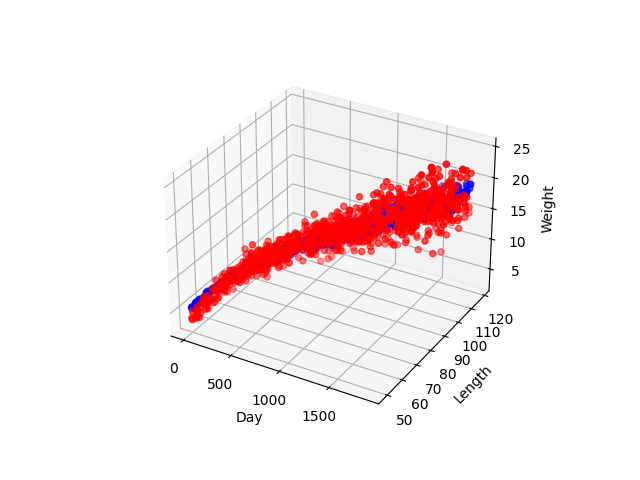
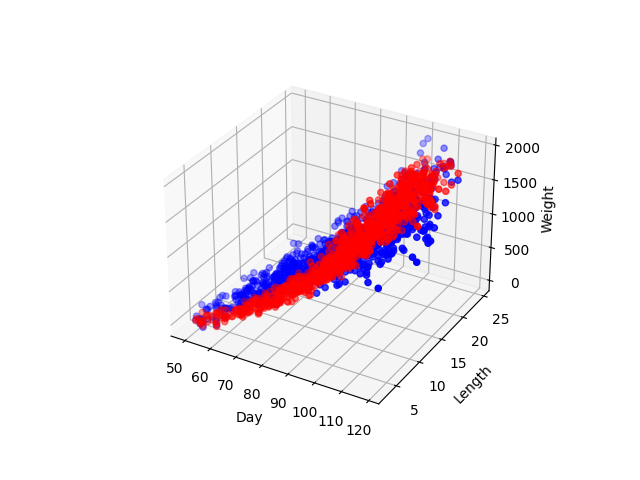
Fikset b til å bruke riktige verdier.

diff --git a/b.py b/b.py
@@ -6,8 +6,8 @@ import matplotlib.pyplot as plt
 df = pd.read_csv('day_length_weight.csv')
 
 data = torch.tensor(df.values, dtype=torch.float)
-all_x = data[:, 0:2].t()
-all_y = data[:, 2].t()
+all_x = data[:, 1:3].t()
+all_y = data[:, 0].t()
 
 # can be changed to make x_test and y_test
 x_train = all_x
@@ -35,7 +35,7 @@ class LinearRegressionModel:
 model = LinearRegressionModel()
 
 # Optimize: adjust W and b to minimize loss using stochastic gradient descent
-optimizer = torch.optim.SGD([model.W, model.b], 0.0000001)
+optimizer = torch.optim.SGD([model.W, model.b], 0.0001)
 for epoch in range(75000):
     model.loss(x_train, y_train).backward()  # Compute loss gradients
     optimizer.step()  # Perform optimization by adjusting W and b,
@@ -46,7 +46,7 @@ print("W = %s, b = %s, loss = %s" % (model.W, model.b, model.loss(x_train, y_tra
 
 fig = plt.figure().gca(projection='3d')
 
-fig.scatter(df['day'], df['length'], df['weight'], c='red')
+fig.scatter(df['length'], df['weight'], df['day'], c='red')
 
 fig.scatter(x_train[0, :], x_train[1, :], zs=model.f(x_train).detach(), c='blue')
 

diff --git a/a.py b/a.py
@@ -1,9 +1,6 @@
 import torch
 import pandas as pd
-from numpy import genfromtxt
 import matplotlib.pyplot as plt
-
-# Observed/training input and output
 
 data = pd.read_csv('length_weight.csv')
 
@@ -17,8 +14,8 @@ y_train = torch.tensor(all_y).reshape(-1, 1)
 class LinearRegressionModel:
     def __init__(self):
         # Model variables
-        self.W = torch.tensor([[1.0]], requires_grad=True)  # requires_grad enables calculation of gradients
-        self.b = torch.tensor([[1.0]], requires_grad=True)
+        self.W = torch.randn((1, 1), requires_grad=True)  # requires_grad enables calculation of gradients
+        self.b = torch.randn((1, 1), requires_grad=True)
 
     # Predictor
     def f(self, x):
